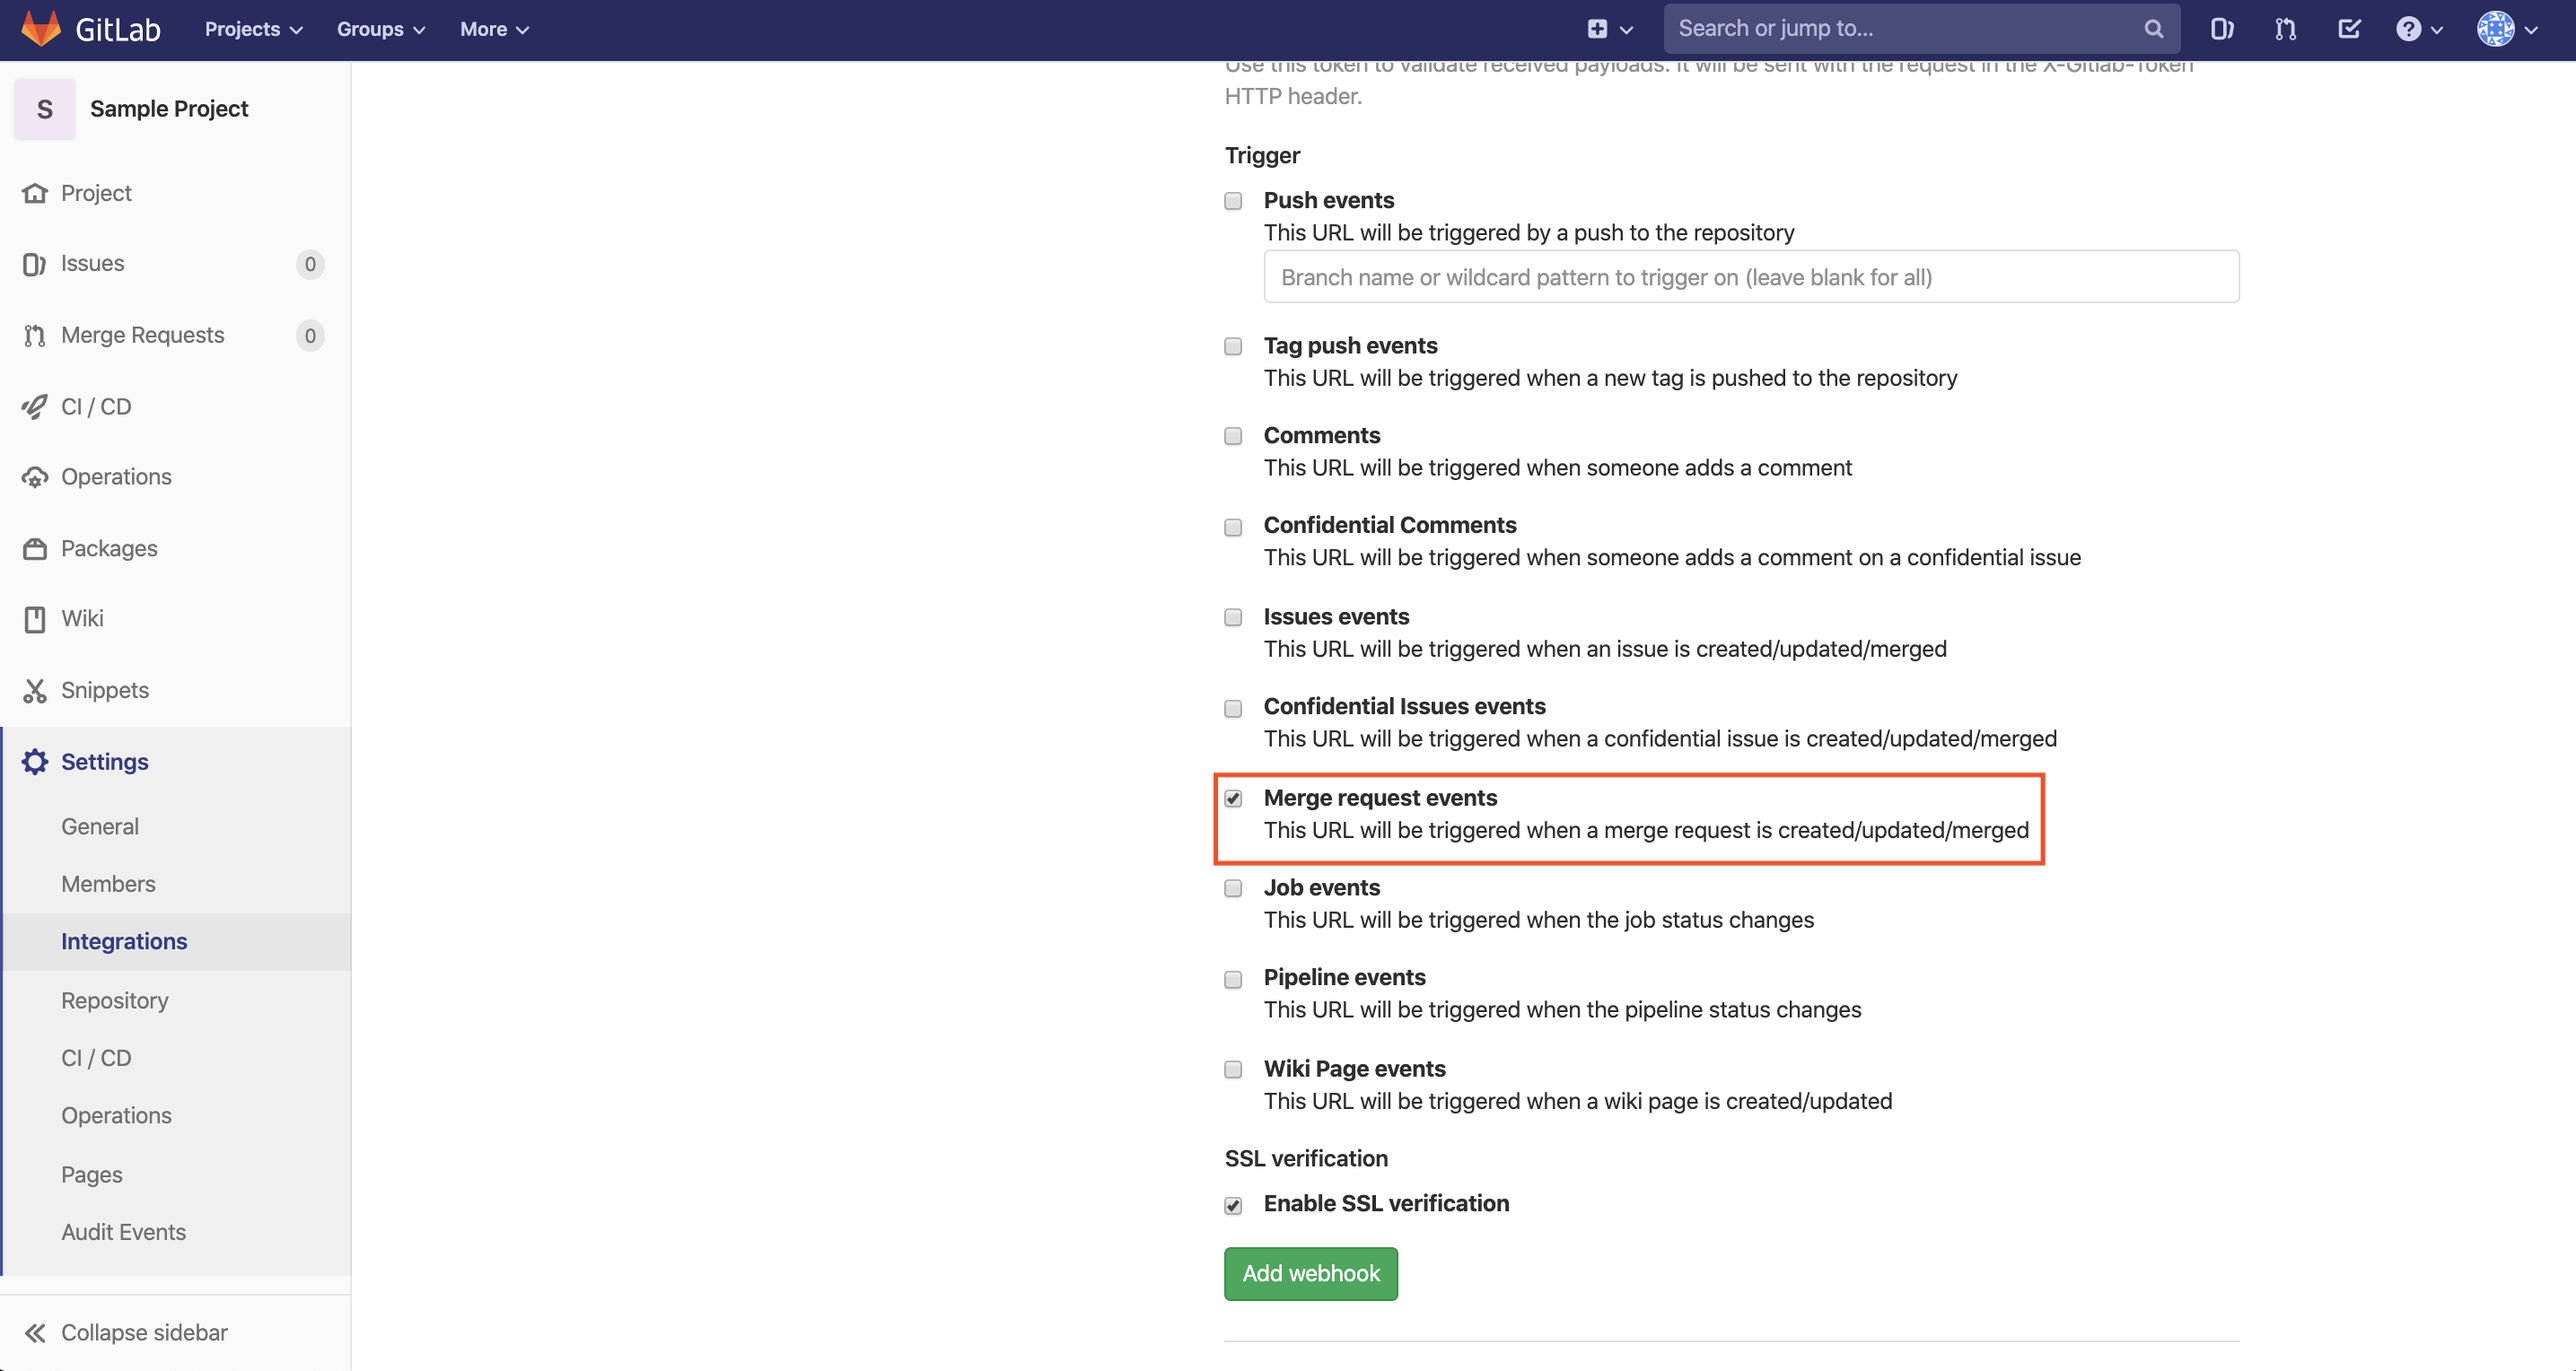
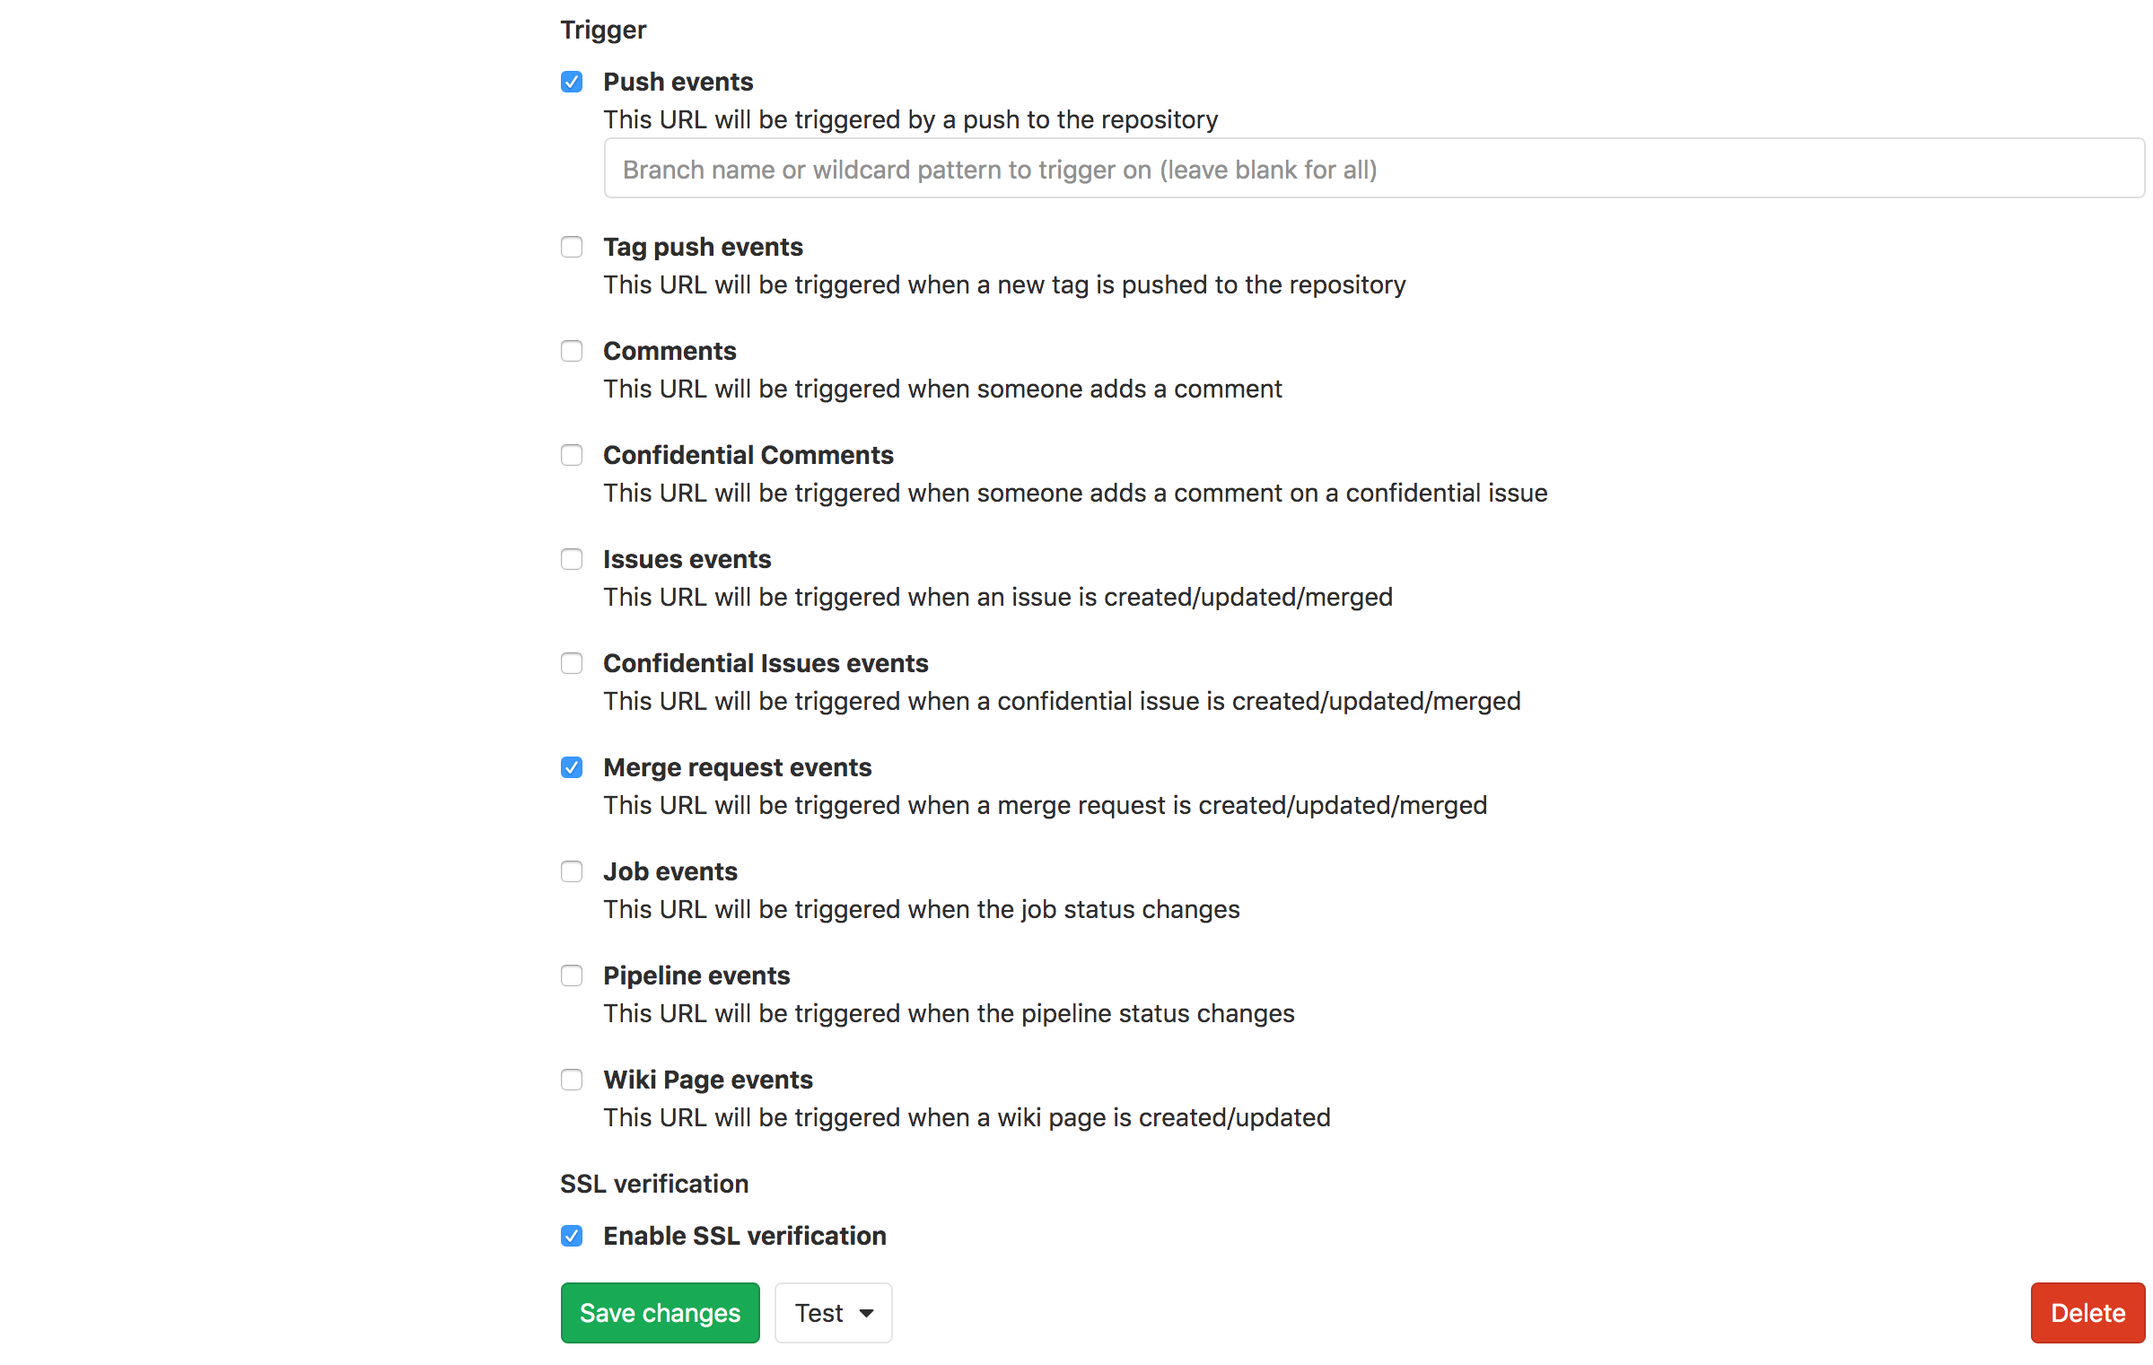
copy changes related to gitlab integration

diff --git a/guide/gitlab-integration.md b/guide/gitlab-integration.md
@@ -12,7 +12,9 @@ permalink: integrations/gitlab/
 
 {: .no_toc }
 
-In this article, we'll see how you can set up your Zepel account to integrate with your GitLab repository.
+In this article, we'll see how you can set up your Zepel account to integrate with your GitLab project.
+
+__Before you begin:__ Ensure that you have Maintainer permissions for the GitLab project.
 
 ## Integrate Zepel with GitLab
 
@@ -34,11 +36,20 @@ In this article, we'll see how you can set up your Zepel account to integrate wi
 
 ![Add Zepel URL and Secret to GitLab Integrations](/guide/assets/uploads/zepel-gitlab-integration-webhooks.png)
 
-* Since Zepel integrates only with pull request closed event, under "**Trigger**", ensure **only** "**Merge request events**" is selected.
-* Uncheck all the other options under Trigger.
+* Under "**Trigger**", ensure "**Pushes**" and "**Pull requests**" are selected.
 
 ![GitLab Trigger Events for Zepel](/guide/assets/uploads/zepel-gitlab-integration-webhook-events.png)
 
-* Click on "**Add Webhook**".
+* Click on "**Save Changes**".
 
-Your Zepel account is now integrated with your GitLab project. Read how you can [complete tasks every time you close a pull request]({{ site.url }}{{ site.baseurl }}{% link guide/complete-with-gitlab.md %}).
+Your Zepel account is now integrated with your GitLab project.
+
+---
+
+**Read Next:** 
+
+1. [Learn how to link item to a branch.]({{ site.url }}{{ site.baseurl }}{% link guide/link-item-to-branch.md %})
+1. [See how to link a Zepel item to commit.]({{ site.url }}{{ site.baseurl }}{% link guide/link-item-to-commit.md %})
+1. [Read how to associate an item to a pull request.]({{ site.url }}{{ site.baseurl }}{% link guide/link-item-to-pull-request.md %})
+1. [How to automatically move items based on your Git workflows.]({{ site.url }}{{ site.baseurl }}{% link guide/setup-git-automation.md %})
+1. [Open pull requests from within Zepel]({{ site.url }}{{ site.baseurl }}{% link guide/open-pull-request.md %})

diff --git a/guide/setup-git-automation.md b/guide/setup-git-automation.md
@@ -13,8 +13,8 @@ permalink: integrations/setup-git-workflow-automation/
 {: .no_toc }
 
 __Before you begin:__ 
-- Ensure that you've [enabled the integration for Github]({{ site.url }}{{ site.baseurl }}{% link guide/github-integration.md %}).
-- Ensure that you've linked an item to at least a [commit]({{ site.url }}{{ site.baseurl }}{% link guide/link-item-to-commit.md %}), [pull request]({{ site.url }}{{ site.baseurl }}{% link guide/link-item-to-pull-request.md %}), or a [branch]({{ site.url }}{{ site.baseurl }}{% link guide/link-item-to-branch.md %}).
+- Ensure that you've enabled the integration for [Github]({{ site.url }}{{ site.baseurl }}{% link guide/github-integration.md %}), [Bitbucket]({{ site.url }}{{ site.baseurl }}{% link guide/bitbucket-integration.md %}), or [GitLab]({{ site.url }}{{ site.baseurl }}{% link guide/gitlab-integration.md %}).
+- Check to see that you have linked at least one item to a [commit]({{ site.url }}{{ site.baseurl }}{% link guide/link-item-to-commit.md %}), [pull request]({{ site.url }}{{ site.baseurl }}{% link guide/link-item-to-pull-request.md %}), or a [branch]({{ site.url }}{{ site.baseurl }}{% link guide/link-item-to-branch.md %}).
 
 ---
 

diff --git a/guide/open-pull-request.md b/guide/open-pull-request.md
@@ -11,7 +11,9 @@ permalink: integrations/open-pull-request/
 # Opening a Pull Request from within Zepel
 {: .no_toc }
 
-__Before you begin:__ Ensure that you've [enabled the integration for Github]({{ site.url }}{{ site.baseurl }}{% link guide/github-integration.md %}).
+__Before you begin:__ Ensure that you've enabled the integration for [Github]({{ site.url }}{{ site.baseurl }}{% link guide/github-integration.md %}), [Bitbucket]({{ site.url }}{{ site.baseurl }}{% link guide/bitbucket-integration.md %}), or [GitLab]({{ site.url }}{{ site.baseurl }}{% link guide/gitlab-integration.md %}).
+
+---
 
 If an item in Zepel is [linked to a branch]({{ site.url }}{{ site.baseurl }}{% link guide/link-item-to-branch.md %}), you can quickly open a pull request and view the number of lines changed from within Zepel.
 

diff --git a/guide/link-item-to-pull-request.md b/guide/link-item-to-pull-request.md
@@ -11,7 +11,9 @@ permalink: integrations/link-item-to-pr/
 # Linking an Item to a Pull Request
 {: .no_toc }
 
-__Before you begin:__ Ensure that you've [enabled the integration for Github]({{ site.url }}{{ site.baseurl }}{% link guide/github-integration.md %}).
+__Before you begin:__ Ensure that you've enabled the integration for [Github]({{ site.url }}{{ site.baseurl }}{% link guide/github-integration.md %}), [Bitbucket]({{ site.url }}{{ site.baseurl }}{% link guide/bitbucket-integration.md %}), or [GitLab]({{ site.url }}{{ site.baseurl }}{% link guide/gitlab-integration.md %}).
+
+---
 
 An item in Zepel can be associated to a Pull Request in your version control system.
 

diff --git a/guide/link-item-to-branch.md b/guide/link-item-to-branch.md
@@ -11,7 +11,9 @@ permalink: integrations/link-item-to-branch/
 # Linking an Item to a Branch
 {: .no_toc }
 
-__Before you begin:__ Ensure that you've [enabled the integration for Github]({{ site.url }}{{ site.baseurl }}{% link guide/github-integration.md %}).
+__Before you begin:__ Ensure that you've enabled the integration for [Github]({{ site.url }}{{ site.baseurl }}{% link guide/github-integration.md %}), [Bitbucket]({{ site.url }}{{ site.baseurl }}{% link guide/bitbucket-integration.md %}), or [GitLab]({{ site.url }}{{ site.baseurl }}{% link guide/gitlab-integration.md %}).
+
+---
 
 An item in Zepel can be associated to a Branch in your version control system.
 

diff --git a/guide/link-item-to-commit.md b/guide/link-item-to-commit.md
@@ -11,7 +11,9 @@ permalink: integrations/link-item-to-commit/
 # Linking an Item to a Commit
 {: .no_toc }
 
-__Before you begin:__ Ensure that you've [enabled the integration for Github]({{ site.url }}{{ site.baseurl }}{% link guide/github-integration.md %}).
+__Before you begin:__ Ensure that you've enabled the integration for [Github]({{ site.url }}{{ site.baseurl }}{% link guide/github-integration.md %}), [Bitbucket]({{ site.url }}{{ site.baseurl }}{% link guide/bitbucket-integration.md %}), or [GitLab]({{ site.url }}{{ site.baseurl }}{% link guide/gitlab-integration.md %}).
+
+---
 
 An item in Zepel can be associated to a Commit in your version control system.
 
